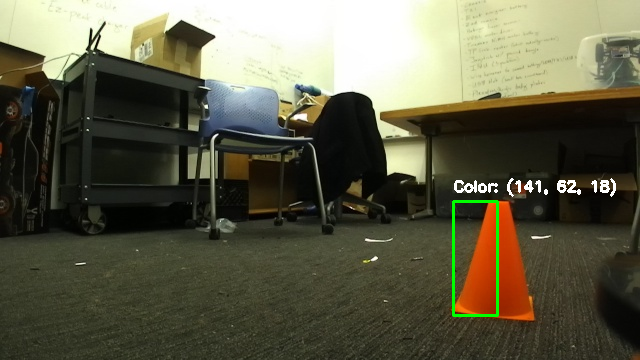
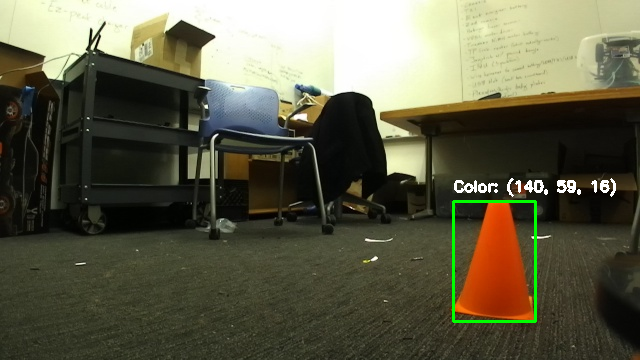
Lowered hue value to get higher score for cones

Changed region(s): [[0.6875, 0.4889, 0.8438, 0.9167]]

diff --git a/visual_servoing/visual_servoing/computer_vision/color_segmentation.py b/visual_servoing/visual_servoing/computer_vision/color_segmentation.py
@@ -58,7 +58,7 @@ def cd_color_segmentation(img, template=None):
     hsv = cv2.cvtColor(img, cv2.COLOR_BGR2HSV)
 
     # Define the range for orange color in HSV
-    lower_orange = np.array([10, 100, 100])
+    lower_orange = np.array([5, 100, 100])
     upper_orange = np.array([25, 255, 255])
 
     # Create a mask
